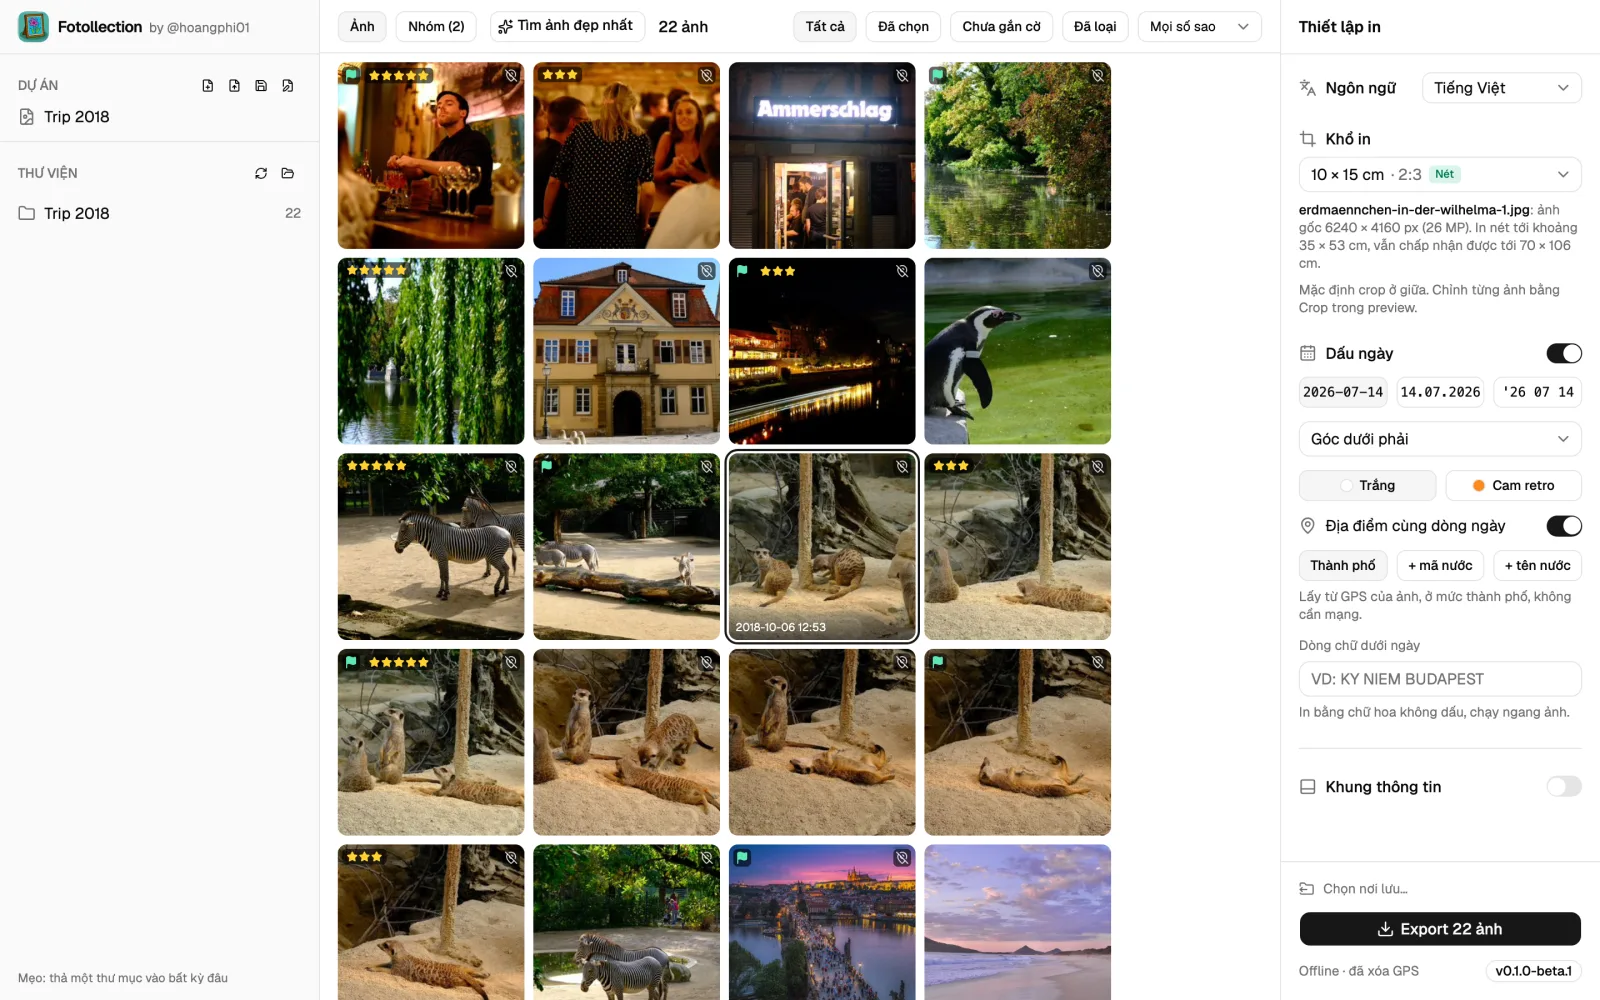
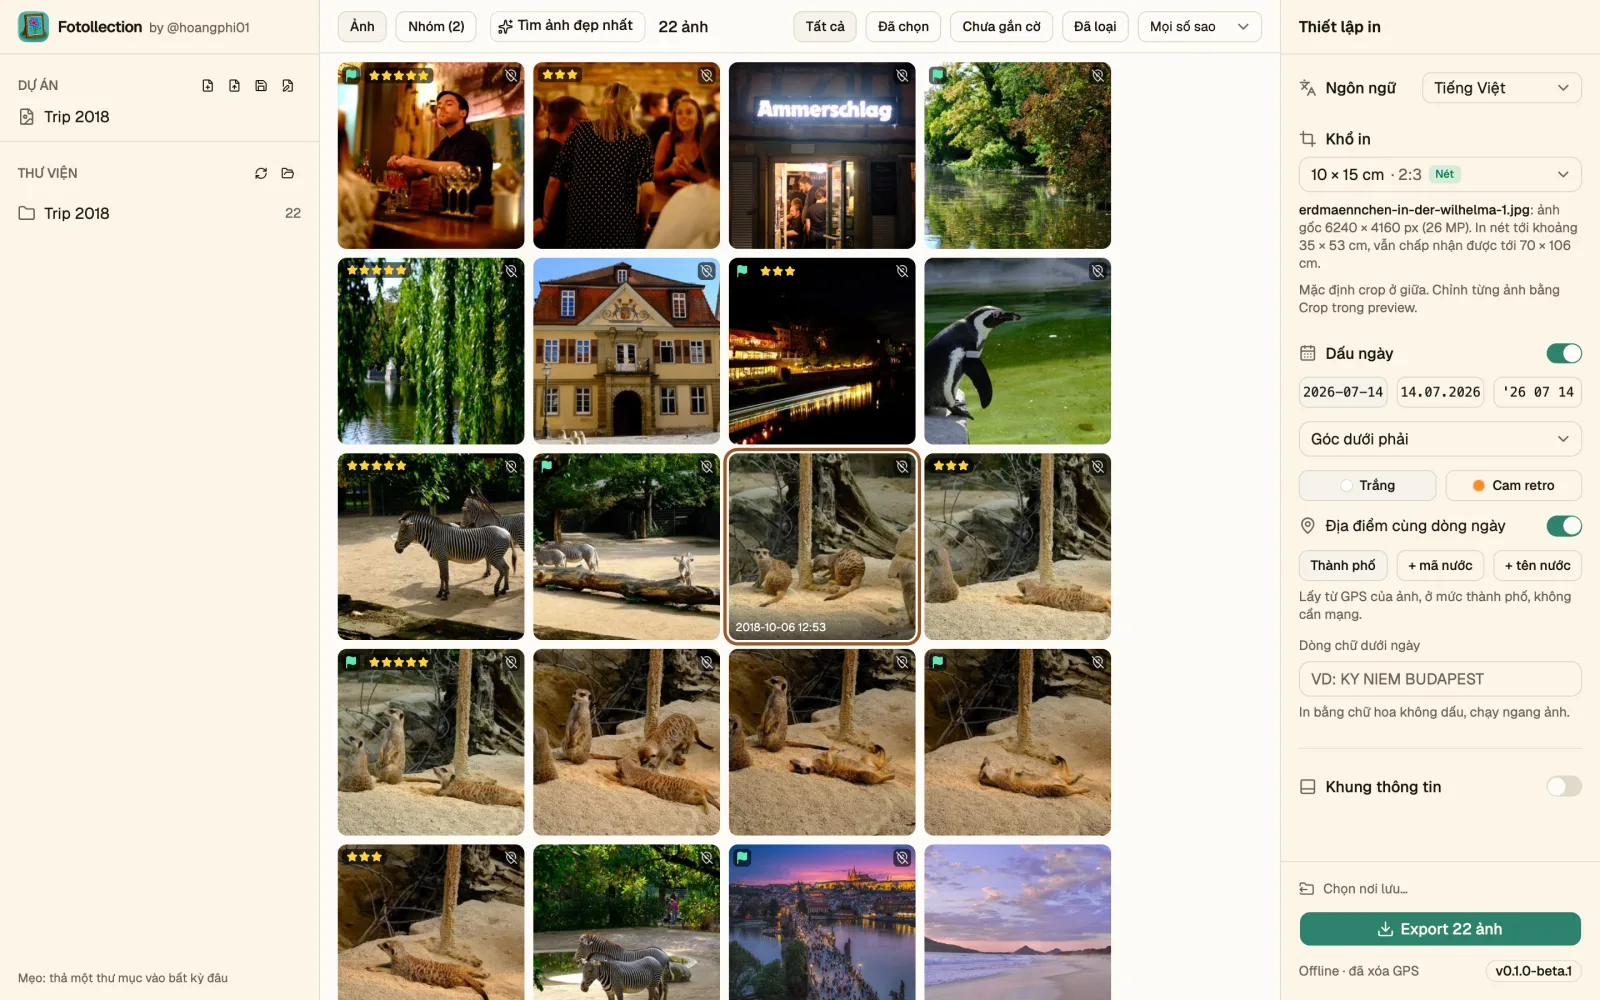
feat(site): privacy section and shield badge, OG cards with the site's fonts [FR-021]
The landing page puts privacy up front: a shield badge in the hero and a
teal band with five promises (no upload, no account or tracking, offline
place names, GPS stripped on export, open source). Link previews now use
the self-hosted Bitter and Be Vietnam Pro fonts, so Vietnamese
diacritics render correctly, carry the new opening line and a privacy
badge. Screenshots show the new app theme.

diff --git a/site/screenshots/og.html b/site/screenshots/og.html
@@ -1,27 +1,34 @@
 <!doctype html>
 <!-- SPDX-License-Identifier: GPL-3.0-only -->
-<!-- The link-preview card (Open Graph, 1200 × 630), rendered by shoot.mjs. -->
+<!-- The link-preview card (Open Graph, 1200 × 630), rendered by shoot.mjs with the site's own fonts. -->
 <html>
   <head>
     <meta charset="utf-8" />
     <style>
+      @font-face { font-family: 'Bitter'; font-weight: 100 900; src: url('/fonts/bitter-latin-wght-normal.woff2') format('woff2-variations'); unicode-range: U+0000-00FF, U+2000-206F; }
+      @font-face { font-family: 'Bitter'; font-weight: 100 900; src: url('/fonts/bitter-vietnamese-wght-normal.woff2') format('woff2-variations'); unicode-range: U+0102-0103, U+0110-0111, U+0128-0129, U+0168-0169, U+01A0-01A1, U+01AF-01B0, U+0300-0301, U+0303-0304, U+0308-0309, U+0323, U+0329, U+1EA0-1EF9, U+20AB; }
+      @font-face { font-family: 'Be Vietnam Pro'; font-weight: 400; src: url('/fonts/be-vietnam-pro-latin-400-normal.woff2') format('woff2'); unicode-range: U+0000-00FF, U+2000-206F; }
+      @font-face { font-family: 'Be Vietnam Pro'; font-weight: 400; src: url('/fonts/be-vietnam-pro-vietnamese-400-normal.woff2') format('woff2'); unicode-range: U+0102-0103, U+0110-0111, U+0128-0129, U+0168-0169, U+01A0-01A1, U+01AF-01B0, U+0300-0301, U+0303-0304, U+0308-0309, U+0323, U+0329, U+1EA0-1EF9, U+20AB; }
+      @font-face { font-family: 'Be Vietnam Pro'; font-weight: 600; src: url('/fonts/be-vietnam-pro-latin-600-normal.woff2') format('woff2'); unicode-range: U+0000-00FF, U+2000-206F; }
+      @font-face { font-family: 'Be Vietnam Pro'; font-weight: 600; src: url('/fonts/be-vietnam-pro-vietnamese-600-normal.woff2') format('woff2'); unicode-range: U+0102-0103, U+0110-0111, U+0128-0129, U+0168-0169, U+01A0-01A1, U+01AF-01B0, U+0300-0301, U+0303-0304, U+0308-0309, U+0323, U+0329, U+1EA0-1EF9, U+20AB; }
       * { box-sizing: border-box; margin: 0; }
       body {
         width: 1200px; height: 630px; overflow: hidden;
-        background: #2c836d; color: #fffaee;
-        font-family: -apple-system, "Helvetica Neue", Arial, sans-serif;
-        background-image: radial-gradient(circle at 80% 110%, #4aada4 0, transparent 60%);
-        display: grid; grid-template-columns: 470px 1fr; align-items: center;
+        background: #2c836d radial-gradient(circle at 80% 110%, #4aada4 0, transparent 60%);
+        color: #fffaee; font-family: 'Be Vietnam Pro', sans-serif;
+        display: grid; grid-template-columns: 500px 1fr; align-items: center;
       }
-      .text { padding: 0 0 0 64px; }
-      .brand { display: flex; align-items: center; gap: 12px; font-size: 26px; font-weight: 700; letter-spacing: -0.01em; }
+      .text { padding: 0 0 0 60px; }
+      .brand { display: flex; align-items: center; gap: 12px; font: 700 26px 'Bitter', serif; }
       .brand img { width: 44px; height: 44px; border-radius: 10px; }
-      h1 { margin-top: 36px; font-size: 52px; line-height: 1.08; font-weight: 800; letter-spacing: -0.01em; font-family: Rockwell, 'Roboto Slab', Georgia, serif; }
+      h1 { margin-top: 30px; font: 800 48px/1.12 'Bitter', serif; letter-spacing: -0.01em; }
       h1 em { font-style: normal; color: #f6c98b; }
-      p { margin-top: 26px; font-size: 22px; line-height: 1.4; color: #e3f1ea; }
+      p { margin-top: 22px; font-size: 21px; line-height: 1.45; color: #e3f1ea; }
+      .shield { display: inline-flex; align-items: center; gap: 8px; margin-top: 24px; padding: 7px 14px; border-radius: 10px; background: #fffaee; color: #3f7d1a; font-weight: 600; font-size: 18px; }
+      .shield svg { width: 22px; height: 22px; }
       .shot { position: relative; height: 100%; }
       .shot img {
-        position: absolute; left: 24px; top: 70px; width: 900px;
+        position: absolute; left: 20px; top: 70px; width: 900px;
         border-radius: 8px; border: 8px solid #fffaee; outline: 4px solid #9a5a2c; box-shadow: 0 30px 80px rgba(0, 0, 0, 0.4);
       }
     </style>
@@ -31,19 +38,24 @@
       <div class="brand"><img src="/mark.png" alt="" />Fotollection</div>
       <h1 id="title"></h1>
       <p id="sub"></p>
+      <div class="shield">
+        <svg viewBox="0 0 24 24" fill="none" stroke="currentColor" stroke-width="2" stroke-linecap="round" stroke-linejoin="round" aria-hidden="true"><path d="M20 13c0 5-3.5 7.5-7.66 8.95a1 1 0 0 1-.67-.01C7.5 20.5 4 18 4 13V6a1 1 0 0 1 1-1c2 0 4.5-1.2 6.24-2.72a1.17 1.17 0 0 1 1.52 0C14.51 3.81 17 5 19 5a1 1 0 0 1 1 1z"/><path d="m9 12 2 2 4-4"/></svg>
+        <span id="shield"></span>
+      </div>
     </div>
     <div class="shot"><img id="shot" alt="" /></div>
     <script>
       const lang = new URLSearchParams(location.search).get('lang') === 'vi' ? 'vi' : 'en'
       const text = {
-        en: [['Photos ready to ', 'print', '. Fully offline.'], 'Date stamp, camera info frame, best-shot picks and print-size crops. Free and open source.'],
-        vi: [['Ảnh sẵn sàng để ', 'in', '. Hoàn toàn offline.'], 'Dấu ngày, khung thông tin máy ảnh, gợi ý ảnh đẹp và crop đúng khổ in. Miễn phí, mã nguồn mở.'],
+        en: [['Overwhelmed by ', 'thousands of photos', ' after a trip?'], 'Fotollection picks the best shots, stamps the date and crops them for print. Free and automatic.', 'Private: your photos never leave your computer'],
+        vi: [['Bối rối với ', 'hàng nghìn ảnh', ' sau chuyến đi?'], 'Fotollection chọn ảnh đẹp, in ngày và crop đúng khổ in. Tự động và miễn phí.', 'Riêng tư: ảnh không bao giờ rời khỏi máy'],
       }[lang]
       const [before, accent, after] = text[0]
       const em = document.createElement('em')
       em.textContent = accent
       document.getElementById('title').append(before, em, after)
       document.getElementById('sub').textContent = text[1]
+      document.getElementById('shield').textContent = text[2]
       document.getElementById('shot').src = `/frame-${lang}-dark.png`
     </script>
   </body>

diff --git a/site/assets/css/site.css b/site/assets/css/site.css
@@ -153,6 +153,11 @@ p { margin: 0; }
 /* Hero */
 .hero { padding: 48px 0 24px; }
 .hero-text { max-width: 760px; }
+.badges { display: flex; flex-wrap: wrap; gap: 8px; margin: 0 0 20px; }
+.badges .badge { margin: 0; }
+.badge.shield { display: inline-flex; align-items: center; gap: 6px; text-decoration: none; background: var(--brand); color: var(--brand-ink); border-color: var(--brand); }
+.badge.shield .icon { width: 1.1em; height: 1.1em; }
+.badge.shield:hover { filter: brightness(1.08); }
 .badge { display: inline-block; padding: 3px 10px; border-radius: 8px; border: 1px solid color-mix(in srgb, var(--leaf) 25%, transparent); background: var(--leaf-soft); color: var(--leaf); font-size: 0.85rem; font-weight: 600; margin-bottom: 20px; }
 .cta { display: flex; flex-wrap: wrap; gap: 10px; margin: 28px 0 12px; }
 /* shadcn/ui-style buttons (default and outline variants), in the logo's colours. */
@@ -191,6 +196,15 @@ p { margin: 0; }
 .chart { margin: 0; padding: 14px; }
 .chart img { width: 100%; border-radius: 8px; }
 .chart figcaption { margin-top: 10px; font-size: 0.92rem; color: var(--ink-2); }
+/* Privacy: the brand-coloured band with a big shield. */
+.privacy { background: var(--brand); color: var(--brand-ink); }
+.privacy .lead { color: color-mix(in srgb, var(--brand-ink) 86%, transparent); }
+.privacy-grid { display: grid; grid-template-columns: 1fr; gap: 32px; }
+.privacy-mark { display: inline-grid; place-items: center; width: 64px; height: 64px; border-radius: 16px; background: var(--brand-ink); color: var(--leaf); margin-bottom: 20px; }
+.privacy-mark .icon { width: 36px; height: 36px; }
+.privacy-list { list-style: none; margin: 0; padding: 0; display: grid; gap: 12px; }
+.privacy-list li { padding: 18px 20px; border-radius: 14px; background: color-mix(in srgb, var(--brand-ink) 10%, transparent); border: 1px solid color-mix(in srgb, var(--brand-ink) 18%, transparent); }
+.privacy-list p { margin-top: 6px; opacity: 0.9; font-size: 0.97rem; }
 .install { display: grid; grid-template-columns: 1fr; gap: 14px; margin: 32px 0 18px; }
 .install ol { margin: 12px 0 0; padding-left: 1.2em; color: var(--ink-2); }
 .install li + li { margin-top: 6px; }
@@ -224,6 +238,7 @@ a:focus-visible, .button:focus-visible { outline: 2px solid var(--teal); outline
   .hero { padding: 80px 0 32px; }
   .section { padding: 96px 0; }
   .cards { grid-template-columns: repeat(3, 1fr); }
+  .privacy-grid { grid-template-columns: 5fr 7fr; gap: 56px; align-items: start; }
   .showcase { grid-template-columns: repeat(2, 1fr); gap: 48px 36px; }
   .footer-row { flex-direction: row; justify-content: space-between; align-items: flex-start; }
 }

diff --git a/site/_includes/home.html b/site/_includes/home.html
@@ -10,7 +10,10 @@
 <section class="hero">
   <div class="wrap hero-grid">
     <div class="hero-text">
-      <p class="badge">{{ t.badge }}</p>
+      <p class="badges">
+        <span class="badge">{{ t.badge }}</span>
+        <a class="badge shield" href="#privacy">{% include icons/shield-check.svg %}{{ t.shield }}</a>
+      </p>
       <h1>{{ t.hero_title_1 }} <em>{{ t.hero_accent }}</em>{{ t.hero_title_2 }}</h1>
       <p class="lead">{{ t.hero_lead }}</p>
       <div class="cta" id="download">
@@ -41,6 +44,23 @@
       <article class="card">{% include icons/gem.svg %}<h3>{{ t.f_quality_title }}</h3><p>{{ t.f_quality_text }}</p></article>
       <article class="card">{% include icons/shield-check.svg %}<h3>{{ t.f_private_title }}</h3><p>{{ t.f_private_text }}</p></article>
     </div>
+  </div>
+</section>
+
+<section class="section privacy" id="privacy">
+  <div class="wrap privacy-grid">
+    <div>
+      <div class="privacy-mark">{% include icons/shield-check.svg %}</div>
+      <h2>{{ t.privacy_title }}</h2>
+      <p class="lead">{{ t.privacy_lead }}</p>
+    </div>
+    <ul class="privacy-list">
+      <li><h3>{{ t.p1_title }}</h3><p>{{ t.p1_text }}</p></li>
+      <li><h3>{{ t.p2_title }}</h3><p>{{ t.p2_text }}</p></li>
+      <li><h3>{{ t.p3_title }}</h3><p>{{ t.p3_text }}</p></li>
+      <li><h3>{{ t.p4_title }}</h3><p>{{ t.p4_text }}</p></li>
+      <li><h3>{{ t.p5_title }}</h3><p>{{ t.p5_text }}</p></li>
+    </ul>
   </div>
 </section>
 

diff --git a/site/_layouts/default.html b/site/_layouts/default.html
@@ -68,6 +68,7 @@
         </a>
         <nav class="nav-links" aria-label="Main">
           <a href="#features">{{ t.nav_features }}</a>
+          <a href="#privacy">{{ t.nav_privacy }}</a>
           <a href="#quality">{{ t.nav_quality }}</a>
           <a href="#numbers">{{ t.nav_numbers }}</a>
           <a href="#download">{{ t.nav_download }}</a>

diff --git a/CHANGELOG.md b/CHANGELOG.md
@@ -74,6 +74,7 @@ The format is based on [Keep a Changelog](https://keepachangelog.com/en/1.1.0/),
 ### Changed
 
 - **Releases (ADR-0021):** one version for the whole app, following Semantic Versioning (0.x until the MVP is complete). `scripts/release.sh` prepares a release commit; when it reaches `main`, CI builds the macOS (universal) and Windows installers and publishes them on GitHub Releases with checksums and first-launch steps. There is no in-app updater: the app stays fully offline and shows its version in the settings panel (FR-021).
+- **A look from the logo:** the app's buttons, switches and checkboxes take the logo's teal, the panels a faint cream (a warm brown in dark mode), and the selected photo sits in a wood-coloured frame. Surfaces next to photos stay near-neutral, and the preview stays on black, so colours are still judged correctly.
 - **Print-size advice (FR-026):** under the print-size picker, one sentence tells how large the selected photo prints sharp and still acceptable ("6240 × 4160 px (26 MP): sharp up to about 35 × 53 cm, acceptable up to 70 × 106 cm"), and every size in the list carries a badge: green Sharp, yellow Acceptable, red Pixelated.
 - **Website:** <https://hoangphi01.github.io/fotollection/> (English) and `/vi/` (Vietnamese), with download buttons for the latest release, screenshots of the real app on CC0 demo photos, three benchmark charts, link previews and no third-party scripts or fonts. Its colours come from the logo: a cream background, teal, wood and leaf green.
 - The Vietnamese place-format buttons are shorter ("Thành phố", "+ mã nước", "+ tên nước"), so they no longer overflow the settings panel.
